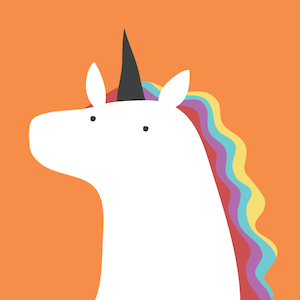
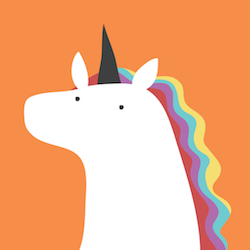
changes medium size to 250x250

diff --git a/app/models/user.rb b/app/models/user.rb
@@ -10,6 +10,6 @@ class User < ApplicationRecord
   has_many :comments
   has_many :likes
 
-  has_attached_file :avatar, styles: { medium: "300x300#", thumb: "100x100#"}, default_url: "avatar_:style.png"
+  has_attached_file :avatar, styles: { medium: "250x250#", thumb: "100x100#"}, default_url: "avatar_:style.png"
   validates_attachment_content_type :avatar, content_type: /\Aimage\/.*\z/
 end
